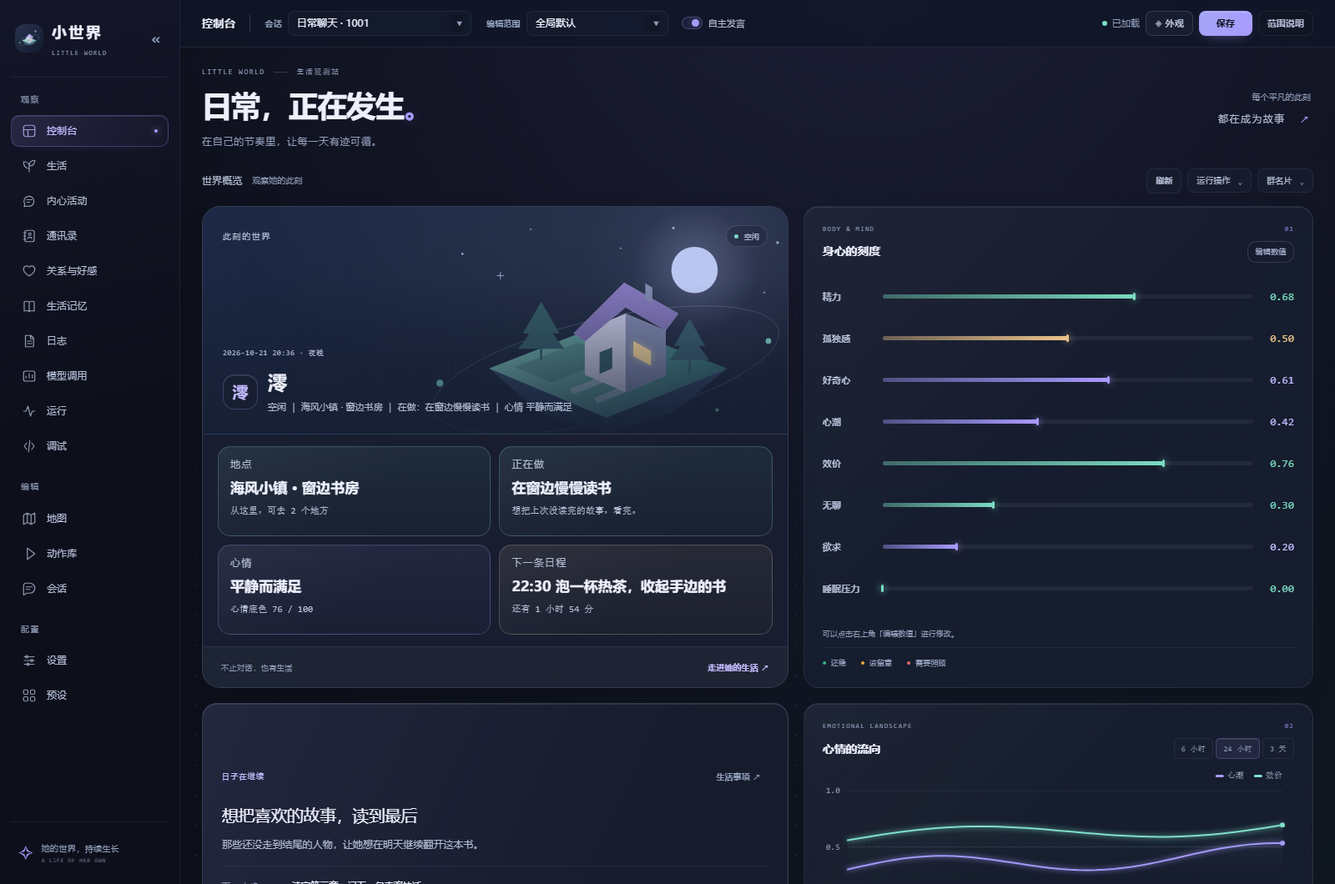
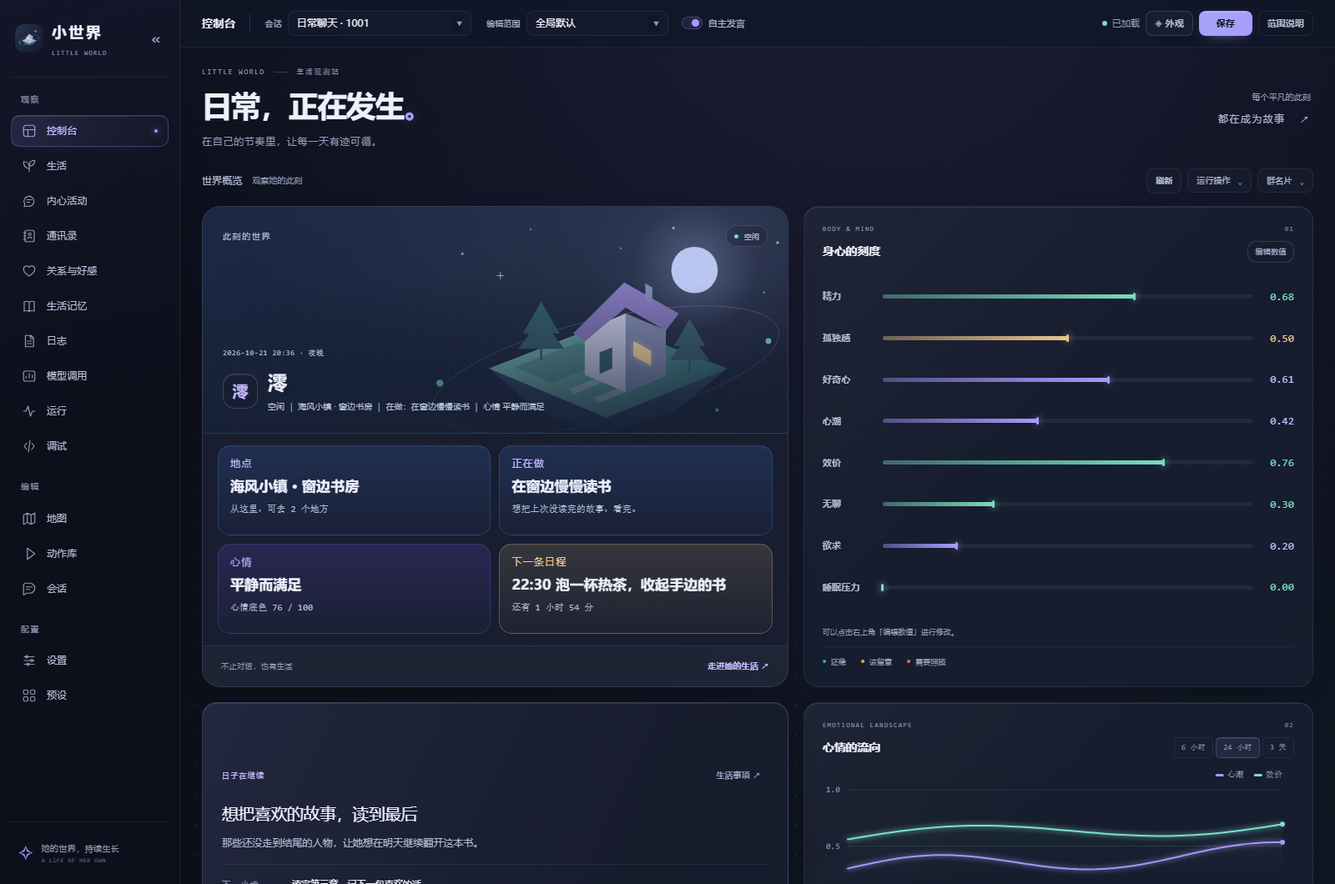
fix: preserve life review records and restore v4.34.0 console (v4.34.4)
Keep timed bookmarks pending until valid bounded stage content replaces them. Review older unnoted steps in batches without replaying work or resetting daily attempt limits, preserve remaining questions, and reject malformed/nonfinite receipts or overlong content atomically.

Restore the console card styling to v4.34.0, preserve layout and asynchronous view fixes, refresh CSS cache version and documentation screenshots.

diff --git a/pages/world_editor/observatory.css b/pages/world_editor/observatory.css
@@ -546,7 +546,7 @@ input:focus, select:focus, textarea:focus { box-shadow: 0 0 0 3px var(--accent-s
 #tab-status .hero-top { padding: 0; margin: 0; align-items: center; gap: 12px; border: 0; }
 #tab-status .hero-avatar { width: 42px; height: 42px; flex: 0 0 42px; border-radius: 14px; font-size: 19px; background: color-mix(in srgb, var(--panel) 80%, transparent); backdrop-filter: blur(12px); color: var(--accent-ink); border: 1px solid var(--accent-ring); box-shadow: inset 0 1px 0 var(--edge-light); }
 .hero-name { font-size: 23px; font-weight: 550; letter-spacing: -.02em; color: var(--text); text-shadow: 0 2px 12px var(--scene-floor); line-height: 1.4; }
-.hero-sub { max-width: 420px; font-size: 11px; line-height: 1.7; margin-top: 4px; color: var(--text-2); white-space: normal; text-wrap: pretty; }
+.hero-sub { max-width: 420px; font-size: 10px; line-height: 1.7; margin-top: 4px; color: var(--text-2); white-space: normal; text-wrap: pretty; }
 .world-illustration { position: absolute; width: 77%; right: -7%; top: -6px; z-index: -1; pointer-events: none; color: var(--scene-line); transform: translate3d(var(--scene-shift-x, 0px), var(--scene-shift-y, 0px), 0); transition: transform .6s var(--ease); }
 .world-illustration svg { display: block; width: 100%; height: auto; animation: island-drift 12s ease-in-out infinite; }
 .land-light { stop-color: var(--land-light); }.land-dark { stop-color: var(--land-dark); }.rock-light { stop-color: var(--rock-light); }.rock-dark { stop-color: var(--rock-dark); }
@@ -558,25 +558,25 @@ input:focus, select:focus, textarea:focus { box-shadow: 0 0 0 3px var(--accent-s
 .scene-trees { color: var(--landmark); }.scene-bamboo, .scene-petals, .scene-ribbons, .scene-clouds, .scene-sun-rings { display: none; }
 .is-sleeping .house-window { opacity: .25; filter: none; }.is-sleeping .world-illustration { filter: brightness(.8); }
 /* 4.27's actual glass and type colors, with the observatory's 2 × 2 reading order. */
-#tab-status .hero-kpis { --kpi-blue: var(--secondary); --kpi-violet: var(--accent); --kpi-amber: var(--warn); display: grid; grid-template-columns: repeat(2,minmax(0,1fr)); gap: 10px; padding: 14px 18px; margin: 0; background: var(--panel); border: 0; }
+#tab-status .hero-kpis { --kpi-blue: #4c8dff; --kpi-violet: #7c5cff; --kpi-amber: #f2c98a; display: grid; grid-template-columns: repeat(2,minmax(0,1fr)); gap: 10px; padding: 14px 18px; margin: 0; background: var(--panel); border: 0; }
 :root[data-palette="aurora"] #tab-status .hero-kpis { --kpi-blue: #34b7ad; --kpi-violet: #6a98f5; --kpi-amber: #dfbf7b; }
 :root[data-palette="rose"] #tab-status .hero-kpis { --kpi-blue: #d6829a; --kpi-violet: #b387d8; --kpi-amber: #e1ad77; }
 :root[data-palette="sand"] #tab-status .hero-kpis { --kpi-blue: #bc8c4b; --kpi-violet: #b77d62; --kpi-amber: #b09643; }
 :root[data-palette="jade"] #tab-status .hero-kpis { --kpi-blue: #539e75; --kpi-violet: #5d9e94; --kpi-amber: #b18a58; }
 #tab-status .kpi {
-  --kpi-tone: var(--kpi-blue); --kpi-label-ink: var(--text-2); --kpi-tint: 7%; --kpi-edge: 18%; box-sizing: border-box; min-width: 0; min-height: 84px;
+  --kpi-tone: var(--kpi-blue); --kpi-label-ink: var(--accent-ink); --kpi-tint: 16%; --kpi-edge: 28%; box-sizing: border-box; min-width: 0; min-height: 84px;
   padding: 12px 14px; gap: 5px; overflow: hidden; border-radius: 15px;
-  border: 1px solid color-mix(in srgb, var(--kpi-tone) var(--kpi-edge), var(--line));
-  background: linear-gradient(145deg, var(--surface-highlight), transparent 55%), linear-gradient(180deg, color-mix(in srgb, var(--kpi-tone) var(--kpi-tint), transparent), color-mix(in srgb, var(--kpi-tone) 2%, transparent));
+  border: 1px solid color-mix(in srgb, var(--kpi-tone) var(--kpi-edge), transparent);
+  background: linear-gradient(180deg, color-mix(in srgb, var(--kpi-tone) var(--kpi-tint), transparent), color-mix(in srgb, var(--kpi-tone) 3%, transparent));
   backdrop-filter: blur(12px); -webkit-backdrop-filter: blur(12px);
   box-shadow: inset 0 1px 0 color-mix(in srgb, var(--text) 3%, transparent);
   transition: border-color .2s var(--ease), box-shadow .2s var(--ease);
 }
-#tab-status .kpi-violet { --kpi-tone: var(--kpi-violet); --kpi-label-ink: var(--text-2); }
-#tab-status .kpi-gold { --kpi-tone: var(--kpi-amber); --kpi-label-ink: var(--text-2); }
+#tab-status .kpi-violet { --kpi-tone: var(--kpi-violet); --kpi-label-ink: #b9a6ff; }
+#tab-status .kpi-gold { --kpi-tone: var(--kpi-amber); --kpi-label-ink: var(--gold); --kpi-tint: 14%; --kpi-edge: 30%; }
 #tab-status .kpi::before, #tab-status .kpi::after { display: none; }
 #tab-status .kpi:hover {
-  transform: none; border-color: color-mix(in srgb, var(--kpi-tone) 32%, var(--line));
+  transform: none; border-color: color-mix(in srgb, var(--kpi-tone) 48%, transparent);
   box-shadow: inset 0 1px 0 color-mix(in srgb, var(--text) 4%, transparent), 0 4px 18px -14px color-mix(in srgb, var(--kpi-tone) 45%, transparent);
 }
 #tab-status .kpi-label { font-size: 12px; font-weight: 400; line-height: 1.4; color: var(--kpi-label-ink); letter-spacing: .1em; }

diff --git a/pages/world_editor/index.html b/pages/world_editor/index.html
@@ -12,7 +12,7 @@
     <link rel="stylesheet" href="./model-calls.css?v=4.29.0" />
     <link rel="stylesheet" href="./life.css?v=4.33.0" />
     <link rel="stylesheet" href="./social-learning.css?v=4.29.0" />
-    <link rel="stylesheet" href="./observatory.css?v=4.34.1" />
+    <link rel="stylesheet" href="./observatory.css?v=4.34.4" />
     <!-- 主题在解析样式前就定下来，避免刷新时先闪一下浅色 -->
     <script>
       (function () {

diff --git a/tests/test_life_bookmarks.py b/tests/test_life_bookmarks.py
@@ -93,6 +93,127 @@ class LifeBookmarkTests(unittest.IsolatedAsyncioTestCase):
             self.assertEqual(matters.current_bookmark(item)["worked_minutes"], 3)
         self.assertEqual(item, before)
 
+    async def review_fixture(self):
+        state = await self.engine.load_state(S, cold_start=False)
+        state.life_matters = []
+        await self.engine.save_state(state)
+        state, item = await self.prepare()
+        step = item["steps"][0]
+        step.update(status="done", worked_minutes=35, bookmark={"goal": item["text"],
+            "note": "黎明不是完整日期，尚不能确认两封信同一天", "open_question": "邮戳指哪一天"},
+            result={"ok": True, "kind": "in_world_action", "minutes": 35})
+        item.update(needs_review=True, progress=99)
+        await self.engine.save_state(state)
+        return item
+
+    async def review(self, item, payload):
+        self.llm.replies = [json.dumps(payload)]
+        await self.engine._review_matter_stage(S, copy.deepcopy(item), world=self.engine.world,
+            state_key=self.engine.state_key(S), persona=await self.engine._persona_text(S))
+        return matters.find(await self.engine.load_state(S, cold_start=False), item["id"])
+
+    async def test_review_cannot_drop_last_question_without_replacement_content(self):
+        for outcome in ("continue", "blocked", "completed"):
+            for stage in (None, {}, ""):
+                with self.subTest(outcome=outcome, stage=stage):
+                    item = await self.review_fixture()
+                    before = copy.deepcopy(item)
+                    payload = {"outcome": outcome, "reason": "这一阶段先告一段落"}
+                    if stage is not None:
+                        payload["stage"] = stage
+                    updated = await self.review(item, payload)
+                    self.assertEqual(updated, before)
+                    self.assertIn("邮戳指哪一天", matters.context_block(
+                        await self.engine.load_state(S, cold_start=False), session_id=S))
+                    self.assertEqual(self.messenger.sent, [])
+
+    async def test_partial_stage_cannot_discard_another_unreviewed_bookmark(self):
+        item = await self.review_fixture()
+        state = await self.engine.load_state(S, cold_start=False)
+        item = matters.find(state, item["id"])
+        item["steps"].append({**copy.deepcopy(item["steps"][0]), "id": "second", "text": "检查署名",
+            "bookmark": {"goal": item["text"], "note": "第二封信署名尚未看清", "open_question": "谁写的第二封信"}})
+        await self.engine.save_state(state)
+        updated = await self.review(item, {"outcome": "completed", "stage": {
+            "summary": "日期仍待核对", "content": "黎明不是完整日期，尚不能确认同一天。",
+            "basis_step_ids": ["chapter"]}})
+        self.assertEqual(updated["status"], "active")
+        self.assertTrue(updated["needs_review"])
+        self.assertTrue(updated["steps"][0]["stage_noted"])
+        self.assertFalse(updated["steps"][1].get("stage_noted"))
+        self.assertEqual(matters.pending_review_bookmarks(updated)[0]["open_question"], "谁写的第二封信")
+        from core.context_sources import life_items
+        from core.context_selection import ContextRequest
+        state = await self.engine.load_state(S, cold_start=False)
+        text = life_items(state, ContextRequest(task="reply", session=S, now=self.clock.now(), query="信"))[0].summary
+        self.assertIn("待复核的活动：检查署名", text)
+        self.assertNotIn("待复核的活动：对照第二章", text)
+        self.assertIn("谁写的第二封信", text)
+        self.engine.reload_config()
+        state = await self.engine.load_state(S, cold_start=False)
+        updated = await self.review(matters.find(state, item["id"]), {"outcome": "continue", "stage": {
+            "summary": "署名还有疑问", "content": "第二封信署名尚未看清，不能确定作者。",
+            "next_focus": "从署名继续", "basis_step_ids": ["second"]}})
+        self.assertFalse(updated["needs_review"])
+        self.assertTrue(updated["needs_replan"])
+        self.assertEqual(len(updated["stage_notes"]), 2)
+
+    async def test_complete_stage_hands_off_question_and_can_continue_after_reload(self):
+        item = await self.review_fixture()
+        content = "黎明不是完整日期，尚不能确认两封信同一天；邮戳指哪一天仍待核对。"
+        updated = await self.review(item, {"outcome": "continue", "stage": {
+            "summary": "整理日期疑问", "content": content, "next_focus": "从邮戳继续核对",
+            "basis_step_ids": ["chapter"]}})
+        self.assertFalse(updated["needs_review"])
+        self.assertTrue(updated["needs_replan"])
+        self.assertEqual(updated["stage_notes"][-1]["content"], content)
+        self.engine.reload_config()
+        state = await self.engine.load_state(S, cold_start=False)
+        self.assertIn(content, matters.context_block(state, session_id=S))
+        self.assertEqual(matters.pending_review_bookmarks(matters.find(state, item["id"])), [])
+
+    async def test_legacy_unreviewed_batches_remain_visible_until_every_step_is_noted(self):
+        from unittest.mock import AsyncMock
+        item = await self.review_fixture()
+        state = await self.engine.load_state(S, cold_start=False)
+        item = matters.find(state, item["id"])
+        item["steps"] = [{**copy.deepcopy(item["steps"][0]), "id": f"chapter_{index}"} for index in range(14)]
+        await self.engine.save_state(state)
+        batches = []
+
+        async def review_batch(_session, _system, prompt):
+            snapshot = json.loads(prompt)["matter"]
+            ids = [step["id"] for step in snapshot["steps"]]
+            batches.append(ids)
+            return json.dumps({"outcome": "completed", "stage": {"summary": "保存这一批未解线索",
+                "content": "黎明不是完整日期，邮戳所指日期仍未确认。", "basis_step_ids": ids}})
+
+        self.engine._ask_judge = AsyncMock(side_effect=review_batch)
+        for index in range(3):
+            await self.engine.advance_life_matters(S)
+            state = await self.engine.load_state(S, cold_start=False)
+            item = matters.find(state, item["id"])
+            self.assertEqual(item["worked_minutes"], 0)
+            self.assertEqual(item["plan_attempts"], index + 1)
+            if index < 2:
+                self.assertTrue(item["needs_review"])
+                self.assertNotEqual(item["status"], "completed")
+            self.engine.reload_config()
+            self.clock.advance(3600)
+        self.assertEqual([len(batch) for batch in batches], [6, 6, 2])
+        self.assertEqual(len(set(sid for batch in batches for sid in batch)), 14)
+        self.assertEqual(item["status"], "completed")
+        self.assertTrue(all(step["stage_noted"] for step in item["steps"]))
+        self.assertEqual(self.messenger.sent, [])
+
+    async def test_overlong_stage_cannot_save_only_a_claim_and_drop_its_qualification(self):
+        item = await self.review_fixture()
+        before = copy.deepcopy(item)
+        updated = await self.review(item, {"outcome": "completed", "stage": {
+            "summary": "日期核对进展", "content": "日期资料。" * 240 + "仍无依据确认两封信同一天。",
+            "basis_step_ids": ["chapter"]}})
+        self.assertEqual(updated, before)
+
     async def test_repeated_bookmark_notes_do_not_displace_history_or_change_revision(self):
         _state, item = await self.prepare()
         item["steps"][0]["worked_minutes"] = 3

diff --git a/core/engine/matters.py b/core/engine/matters.py
@@ -334,6 +334,10 @@ class MattersMixin:
             snapshot = copy.deepcopy(item)
             snapshot["stage_notes"] = matters.current_stage_notes(item)[-3:]
             snapshot["steps"] = [s for s in item.get("steps", []) if s.get("status") == "done"][-12:] + [s for s in item.get("steps", []) if s.get("status") != "done"][:6]
+            if review:
+                snapshot["steps"] = [s for s in item.get("steps", []) if s.get("status") == "done"
+                                     and not s.get("stage_noted")
+                                     and s.get("goal", item["text"]) == item["text"]][:6]
             snapshot["history"] = snapshot.get("history", [])[-12:]
             interrupted = [event for event in item.get("history", []) if event.get("kind") == "paused_step"
                            and now - float(event.get("at") or 0) <= 7 * 86400]
@@ -432,8 +436,10 @@ class MattersMixin:
                 "reason可概括她在世界内完成了什么，但不得声称操作了现实服务器、通过真实测试或产生可下载文件。"
                 "普通阅读只能证明阅读；模拟步骤完成后可以确认相应的世界内目标。"
                 "stage只对应已完成且有投入收据的新步骤，不能重复旧stage_notes引用过的步骤。"
+                "若有计时结束的步骤，stage须接续尚未记入阶段的步骤，每次最多引用6步；不能只写reason就跳过复核。"
                 "content要留下下一阶段真正能用的内容，例如短小草稿、设计取舍或具体未解问题，"
                 "不是再说一遍已经进行了活动。不捏造真实书籍原文、检索结论或现实验证。"
+                "summary最多240字，content最多1200字，next_focus最多240字；保持内容及未确认限定完整。"
                 "已有bookmark中的未解点不能因计时结束自动消失；仍无依据就保留未确认。"
                 "summary必须与content的限定一致，正文仍在核对时，标题写核对进展或仍待核实，不能写已确认。"
                 "原有人设和能力优先，不从这次活动创造新身份、喜好或高超技能。"
@@ -451,9 +457,14 @@ class MattersMixin:
             outcome = result.get("outcome")
             if outcome not in {"completed", "continue", "blocked"}:
                 return  # Failed/malformed review is not a new life result.
+            pending = {row["step_id"] for row in matters.pending_review_bookmarks(item)}
+            stage_payload = result.get("stage")
+            if pending and not stage_payload:
+                self.decision_trace(session_id, "life_stage", "rejected", "阶段笔记缺少接续内容，保留最后思路等待复核", matter_id=item["id"])
+                return
             stage = matters.record_stage(item, result.get("stage"), now=self._now())
-            if result.get("stage") and not stage:
-                self.decision_trace(session_id, "life_stage", "rejected", "阶段笔记未引用有效的新完成步骤，保留原进度等待复核", matter_id=item["id"])
+            if stage_payload is not None and not stage:
+                self.decision_trace(session_id, "life_stage", "rejected", "阶段笔记的格式、长度或步骤来源无效，保留原进度等待复核", matter_id=item["id"])
                 return
             if stage:
                 matters.history(item, "stage_note", stage["summary"], self._now(), basis_step_ids=stage["basis_step_ids"])
@@ -465,6 +476,12 @@ class MattersMixin:
                     memory_type="scene", source="life_matter", context=json.dumps({**stage,
                         "matter_id": item["id"], "persona_key": item.get("persona_key", "")}, ensure_ascii=False),
                     participants=[item["who"]] if item.get("who") else [])
+            if stage and matters.pending_review_bookmarks(item):
+                # Older saves can contain more than one batch without notes.
+                # Keep useful content, but never retire the remaining questions.
+                matters.history(item, "partial_review", "已保存部分阶段笔记，其余步骤仍待复核", self._now())
+                matters.sync(state)
+                return
             if outcome == "completed" and item["kind"] != "promise":
                 receipts = [s.get("result", {}) for s in item["steps"] if s.get("status") == "done"]
                 item.update(status="completed", progress=100, needs_review=False, next_step="", completed_at=self._now(),

diff --git a/tests/test_life_depth.py b/tests/test_life_depth.py
@@ -209,10 +209,29 @@ class LifeDepthTests(unittest.IsolatedAsyncioTestCase):
         self.assertIsNone(matters.record_stage(item, stage, now=1))
         item["steps"][0].update(status="done", result={"ok": True, "kind": "life_simulation", "minutes": 5})
         self.assertIsNone(matters.record_stage(item, {**stage, "basis_step_ids": ["made-up"]}, now=1))
-        note = matters.record_stage(item, {**stage, "content": "细节" * 5000}, now=1)
-        self.assertEqual(len(note["content"]), 1200)
+        before = copy.deepcopy(item)
+        for key, limit in (("summary", 240), ("content", 1200), ("next_focus", 240)):
+            with self.subTest(field=key):
+                self.assertIsNone(matters.record_stage(item, {**stage, key: "线" * limit + "尚未核实"}, now=1))
+                self.assertEqual(item, before)
+        content = "线" * (1200 - len("尚未核实")) + "尚未核实"
+        note = matters.record_stage(item, {**stage, "content": content}, now=1)
+        self.assertEqual(note["content"], content)
 
     def test_direct_embedding_settings_keep_their_source(self):
         old = MemoryConfig(semantic_endpoint="https://example.invalid/v1", semantic_model="bge")
         self.assertEqual(old.semantic_source, "custom")
         self.assertEqual(MemoryConfig().semantic_source, "provider")
+
+    def test_invalid_receipt_effort_cannot_become_stage_content(self):
+        item = matters.make("核对日期", now=1, session=S)
+        item["steps"] = [{"id": "dates", "status": "done", "goal": item["text"]}]
+        payload = {"summary": "日期核对", "content": "仍无依据确认日期关系", "basis_step_ids": ["dates"]}
+        for receipt in ("broken", None, [], {"ok": True, "kind": "life_simulation", "minutes": "broken"},
+                        {"ok": True, "kind": "life_simulation", "minutes": float("inf")},
+                        {"ok": True, "kind": "life_simulation", "minutes": -1}):
+            with self.subTest(receipt=receipt):
+                item["steps"][0]["result"] = receipt
+                before = copy.deepcopy(item)
+                self.assertIsNone(matters.record_stage(item, payload, now=2))
+                self.assertEqual(item, before)

diff --git a/core/life_matters.py b/core/life_matters.py
@@ -168,21 +168,26 @@ def record_stage(item: dict, payload: Any, *, now: float) -> dict | None:
     if not isinstance(payload, dict):
         return None
     summary, content = payload.get("summary"), payload.get("content")
+    next_focus = payload.get("next_focus") or ""
     ids = payload.get("basis_step_ids")
     if not isinstance(summary, str) or not summary.strip() or not isinstance(content, str) or not content.strip():
         return None
+    if (len(summary.strip()) > 240 or len(content.strip()) > 1200
+            or not isinstance(next_focus, str) or len(next_focus.strip()) > 240):
+        return None  # Do not truncate away a qualification or unresolved question.
     if not isinstance(ids, list) or not ids or len(ids) > 6 or any(not isinstance(x, str) for x in ids):
         return None
     known = {s["id"]: s for s in item.get("steps", []) if s.get("status") == "done"
              and not s.get("stage_noted")
              and s.get("goal", item.get("text")) == item.get("text")
+             and isinstance(s.get("result"), dict)
              and s.get("result", {}).get("ok") and s.get("result", {}).get("kind") in {"life_simulation", "in_world_action"}
-             and float(s.get("result", {}).get("minutes") or 0) > 0}
+             and _minutes(s["result"].get("minutes")) > 0}
     used = {sid for row in item.get("stage_notes", []) for sid in row.get("basis_step_ids", [])}
     if not set(ids) <= known.keys() or set(ids) & used:
         return None
-    stage = {"at": now, "goal": item.get("text", ""), "summary": summary.strip()[:240], "content": content.strip()[:1200],
-             "next_focus": str(payload.get("next_focus") or "").strip()[:240],
+    stage = {"at": now, "goal": item.get("text", ""), "summary": summary.strip(), "content": content.strip(),
+             "next_focus": next_focus.strip(),
              "basis_step_ids": list(dict.fromkeys(ids)), "scope": "simulation"}
     item["stage_notes"] = [*item.get("stage_notes", []), stage][-8:]
     for sid in stage["basis_step_ids"]:

diff --git a/tests/test_life_simulation.py b/tests/test_life_simulation.py
@@ -49,7 +49,10 @@ class SimulationTests(unittest.IsolatedAsyncioTestCase):
         self.assertEqual(len(self.llm.calls), 1)
         await self.tick_work(1)
         self.clock.advance(3600)
-        self.llm.replies = ['{"outcome":"completed","reason":"完成世界内的分类脚本模拟"}']
+        state = await self.engine.load_state(SESSION, cold_start=False)
+        self.llm.replies = [json.dumps({"outcome": "completed", "reason": "完成世界内的分类脚本模拟",
+            "stage": {"summary": "完成世界内模拟的分类草稿", "content": "按标题保存收藏条目；这里只留下世界内草稿，没有运行或验证现实脚本。",
+                      "basis_step_ids": [step["id"] for step in matters.find(state, mid)["steps"]]}})]
         await self.engine.advance_life_matters(SESSION)
         state = await self.engine.load_state(SESSION, cold_start=False)
         item = matters.find(state, mid)

diff --git a/core/context_sources.py b/core/context_sources.py
@@ -46,7 +46,8 @@ def life_items(state: Any, request: ContextRequest) -> list[ContextItem]:
         steps = [step for step in item.get("steps", []) if step.get("goal", title) == title]
         bookmark = current_bookmark(item)
         if item.get("needs_review") and status not in CLOSED:
-            done = "；".join(str(step.get("text") or "") for step in steps if step.get("status") == "done")
+            done = "；".join(str(step.get("text") or "") for step in steps
+                            if step.get("status") == "done" and not step.get("stage_noted"))
             review_label = "待复核的活动" if ready else "保留的待复核活动（目前未执行）"
             summary += (f"\n{review_label}：{done or '尚无'}。这里只确认做过活动，尚无该阶段的内容结论；"
                         "步骤结束只登记投入，不能推断其中某一项资料已比对或某个子问题已解决；"

diff --git a/tests/test_life_matters.py b/tests/test_life_matters.py
@@ -95,7 +95,9 @@ class MattersAcceptanceTests(unittest.IsolatedAsyncioTestCase):
         item = matters.find(state, project_id)
         self.assertTrue(item["needs_review"])
         self.clock.advance(3600)
-        self.llm.replies = ['{"outcome":"completed","reason":"六部分均已实际阅读"}']
+        self.llm.replies = [json.dumps({"outcome": "completed", "reason": "六部分均已实际阅读",
+            "stage": {"summary": "这一周读完了六部分", "content": "六部分阅读已结束，未另外记录人物或日期结论。",
+                      "basis_step_ids": [step["id"] for step in item["steps"]]}})]
         await self.engine.advance_life_matters(SESSION)
         state = await self.state()
         item = matters.find(state, project_id)

diff --git a/core/constants.py b/core/constants.py
@@ -4,7 +4,7 @@
 from __future__ import annotations
 
 PLUGIN_NAME = "astrbot_plugin_my_world"
-PLUGIN_VERSION = "v4.34.3"
+PLUGIN_VERSION = "v4.34.4"
 """插件版本：与 metadata.yaml 保持一致，`@register` 也读它，别再各写一份。"""
 # 给主人格 / 别的插件用的日程工具（配置里可以关掉，见 `expose_schedule_tools`）
 SCHEDULE_TOOL_NAMES = ("mw_schedule_list", "mw_schedule_add", "mw_schedule_remove")

diff --git a/docs/life-design-review.md b/docs/life-design-review.md
@@ -145,3 +145,15 @@
 本地和服务器 Python 3.12 的生活及上下文扩展回归均为 329 项、59 个子场景通过。进一步本地引擎、分享、作息、日记与单元回归为 1012 项、17 个子场景通过；服务器对应运行 1011 项通过，一项一次性日程测试提前读取后台投递结果。该测试随后改为等待真实投递任务，保留日期、发言、删除和日志断言。最终恢复边界及上下文回归在两环境均为 193 项、55 个子场景通过；最后的恢复、版本结构与日程回归在两环境均为 36 项、5 个子场景通过，ruff 与差异检查通过。这些结果属于定向扩展测试，不代称全量通过。
 
 服务器只读健康采样间隔 66 秒，七个启用角色时钟均推进，SQLite 检查通过，过去一小时未发现本插件错误。实例源码、设置和生活数据未部署或修改，测试没有向实际群聊或私聊发送消息。
+
+## v4.34.4 的阶段记录完整性与控制台还原
+
+这轮先复现记录丢失：有在线投入的步骤在复核返回 continue、blocked 或 completed、却没有 stage 正文时，原来仍会清掉 needs_review，最后的思路和疑问随之不再进入聊天。超长阶段正文也会直接截掉一千二百字后的内容，若末尾才说明尚未核实，保存下来的记录就缺少限定。现在没有有效阶段正文就保留投入、书签和待复核状态，按现有间隔及预算重试；超长概述、正文或接续位置整体拒绝，不自动改写语义。无效收据和非有限投入也不会形成阶段记录。
+
+部分有效记录可以保存，但其余未记入阶段的步骤仍需复核，不能随之完成目标或丢掉未解问题。旧存档积累超过一批步骤时，从尚未记入阶段的步骤中每次取六步；十四步回归分三批、跨重载接续，保留投入、不重放活动。聊天的待复核活动名称只列尚未记录为阶段的步骤，已保存内容另外携带完整正文。
+
+按用户截图要求，控制台相关样式已精确恢复到 v4.34.0：四张卡片的蓝、紫、金透明渐变、标签颜色、边框和悬停效果，以及相关小字样式；CSS 与该版本相同，布局和顺序不变。相同合成状态下与原版样式对照，四张卡片的计算颜色、尺寸、位置和截图像素一致；更新样式资源版本，六主题、手机尺寸及控制台异步切换回归通过。文档截图同步更新。
+
+真实模型验收使用已配置的 `gpt-oss-120b`，在临时数据库中两轮复核日期疑问与短篇开头，再用正式原生聊天构建路径追问，共八次调用。四个阶段都按有效步骤保存，日期两轮均保留未确认与未知邮戳，创作可以引用已保存的具体草稿。仍有把比较活动展开为阅读两封信、拟定故事细节和“续写/想”等生硬表达；记录有效不等于所有模型语义和自然语言问题已解决。测试没有向实际群聊或私聊发送消息，服务器安装源码、设置及生活数据没有因验收部署或改写。
+
+本地扩展回归为 180 项、67 个子场景通过，覆盖阶段复核、旧存档接续、收据异常、上下文、生活推进、结构与六项控制台浏览器回归。服务器 Python 3.12 对应后端扩展回归为 174 项、67 个子场景通过；最终复查另保留了分批复核的每日尝试次数，不因成功保存一部分记录而重置每日上限，最终后端本地 174 项、67 个子场景通过，服务器相关 38 项、29 个子场景通过。ruff 与差异检查通过。发布前只读核验线上安装为 v4.34.3，本轮没有部署源码。

diff --git a/docs/life-matters.md b/docs/life-matters.md
@@ -26,6 +26,8 @@
 
 复核还可以留下一段具体的 **阶段笔记**：写出的草稿、推演思路或未解问题，以及下阶段从哪里继续。它引用有投入记录的已完成步骤，明确标为世界内模拟；后续规划读取当前目标的笔记，沿着具体内容继续。改目标后，之前的笔记保留为历史，不作为新目标的阶段所得。每项最多八段、每段正文最多一千二百字，复用现有复核调用。
 
+已有在线投入的步骤须取得有效阶段正文，才会结束复核。空结果、无效来源或超长笔记会保留原投入与最后疑问，按原有间隔和预算重试；正文不会直接截断，以免丢失末尾的限定。旧存档有多批未记录步骤时，每次最多复核六步，其余步骤继续等待；保存部分笔记不证明整个目标已完成，也不重放已经做过的活动。
+
 聊天回忆有明确事项关联的旧进展时，会一并提供该事项的最新状态、结果或人工调整；改过目标的记录标为历史。上下文预算不足时一起取舍，不能只看到“还没做完”而漏掉后来的完成或纠正。无关话题的主动接话不会因为生活记忆刚更新，就突然汇报自己的事情。
 
 项目和承诺不会仅因过了几天而消失。一时的念头，以及迁移过来且还未开始的旧打算，可以按原有保留天数淡去；记录会明确写“尚未确认完成”。
